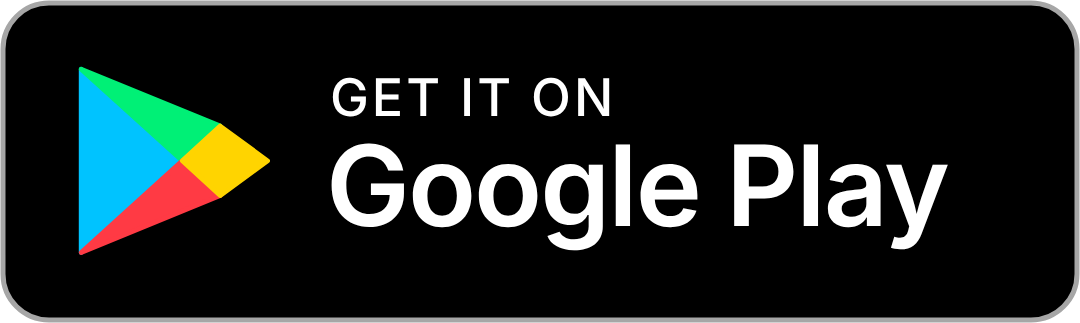
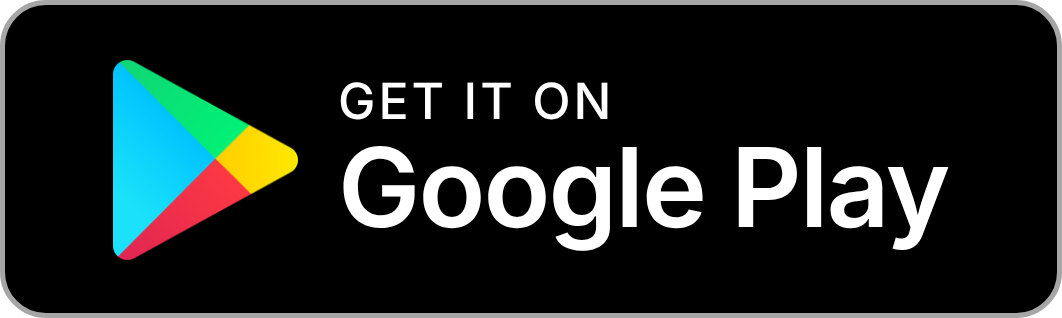
Google Play badge fix

diff --git a/en/index.html b/en/index.html
@@ -347,8 +347,8 @@ a:focus-visible{outline:2px solid var(--gold);outline-offset:4px;border-radius:1
   background:rgba(7,11,16,.55);border:1px solid rgba(234,242,255,.22);-webkit-backdrop-filter:blur(10px);backdrop-filter:blur(10px)}
 .lang-sw:hover{border-color:var(--gold);color:var(--gold)}
 .stores .soon{position:relative;display:block;border-radius:12px;cursor:default}
-.stores .soon img{opacity:.5}
-.stores .soon b{position:absolute;right:8px;top:-10px;background:var(--gold);color:#1a1405;font:800 11px/1 var(--sans);letter-spacing:.07em;
+.stores .soon img{opacity:.88;display:block}
+.stores .soon b{position:absolute;left:50%;bottom:-9px;transform:translateX(-50%);white-space:nowrap;box-shadow:0 2px 8px rgba(0,0,0,.45);background:var(--gold);color:#1a1405;font:800 11px/1 var(--sans);letter-spacing:.07em;
   text-transform:uppercase;padding:5px 9px;border-radius:999px}
 .getit{padding:clamp(40px,8vh,80px) 16px 0;text-align:center}
 .getit .stores{margin-top:0}

diff --git a/en/privacy.html b/en/privacy.html
@@ -346,8 +346,8 @@ a:focus-visible{outline:2px solid var(--gold);outline-offset:4px;border-radius:1
   background:rgba(7,11,16,.55);border:1px solid rgba(234,242,255,.22);-webkit-backdrop-filter:blur(10px);backdrop-filter:blur(10px)}
 .lang-sw:hover{border-color:var(--gold);color:var(--gold)}
 .stores .soon{position:relative;display:block;border-radius:12px;cursor:default}
-.stores .soon img{opacity:.5}
-.stores .soon b{position:absolute;right:8px;top:-10px;background:var(--gold);color:#1a1405;font:800 11px/1 var(--sans);letter-spacing:.07em;
+.stores .soon img{opacity:.88;display:block}
+.stores .soon b{position:absolute;left:50%;bottom:-9px;transform:translateX(-50%);white-space:nowrap;box-shadow:0 2px 8px rgba(0,0,0,.45);background:var(--gold);color:#1a1405;font:800 11px/1 var(--sans);letter-spacing:.07em;
   text-transform:uppercase;padding:5px 9px;border-radius:999px}
 .getit{padding:clamp(40px,8vh,80px) 16px 0;text-align:center}
 .getit .stores{margin-top:0}

diff --git a/en/support.html b/en/support.html
@@ -346,8 +346,8 @@ a:focus-visible{outline:2px solid var(--gold);outline-offset:4px;border-radius:1
   background:rgba(7,11,16,.55);border:1px solid rgba(234,242,255,.22);-webkit-backdrop-filter:blur(10px);backdrop-filter:blur(10px)}
 .lang-sw:hover{border-color:var(--gold);color:var(--gold)}
 .stores .soon{position:relative;display:block;border-radius:12px;cursor:default}
-.stores .soon img{opacity:.5}
-.stores .soon b{position:absolute;right:8px;top:-10px;background:var(--gold);color:#1a1405;font:800 11px/1 var(--sans);letter-spacing:.07em;
+.stores .soon img{opacity:.88;display:block}
+.stores .soon b{position:absolute;left:50%;bottom:-9px;transform:translateX(-50%);white-space:nowrap;box-shadow:0 2px 8px rgba(0,0,0,.45);background:var(--gold);color:#1a1405;font:800 11px/1 var(--sans);letter-spacing:.07em;
   text-transform:uppercase;padding:5px 9px;border-radius:999px}
 .getit{padding:clamp(40px,8vh,80px) 16px 0;text-align:center}
 .getit .stores{margin-top:0}

diff --git a/index.html b/index.html
@@ -347,8 +347,8 @@ a:focus-visible{outline:2px solid var(--gold);outline-offset:4px;border-radius:1
   background:rgba(7,11,16,.55);border:1px solid rgba(234,242,255,.22);-webkit-backdrop-filter:blur(10px);backdrop-filter:blur(10px)}
 .lang-sw:hover{border-color:var(--gold);color:var(--gold)}
 .stores .soon{position:relative;display:block;border-radius:12px;cursor:default}
-.stores .soon img{opacity:.5}
-.stores .soon b{position:absolute;right:8px;top:-10px;background:var(--gold);color:#1a1405;font:800 11px/1 var(--sans);letter-spacing:.07em;
+.stores .soon img{opacity:.88;display:block}
+.stores .soon b{position:absolute;left:50%;bottom:-9px;transform:translateX(-50%);white-space:nowrap;box-shadow:0 2px 8px rgba(0,0,0,.45);background:var(--gold);color:#1a1405;font:800 11px/1 var(--sans);letter-spacing:.07em;
   text-transform:uppercase;padding:5px 9px;border-radius:999px}
 .getit{padding:clamp(40px,8vh,80px) 16px 0;text-align:center}
 .getit .stores{margin-top:0}

diff --git a/privacy.html b/privacy.html
@@ -346,8 +346,8 @@ a:focus-visible{outline:2px solid var(--gold);outline-offset:4px;border-radius:1
   background:rgba(7,11,16,.55);border:1px solid rgba(234,242,255,.22);-webkit-backdrop-filter:blur(10px);backdrop-filter:blur(10px)}
 .lang-sw:hover{border-color:var(--gold);color:var(--gold)}
 .stores .soon{position:relative;display:block;border-radius:12px;cursor:default}
-.stores .soon img{opacity:.5}
-.stores .soon b{position:absolute;right:8px;top:-10px;background:var(--gold);color:#1a1405;font:800 11px/1 var(--sans);letter-spacing:.07em;
+.stores .soon img{opacity:.88;display:block}
+.stores .soon b{position:absolute;left:50%;bottom:-9px;transform:translateX(-50%);white-space:nowrap;box-shadow:0 2px 8px rgba(0,0,0,.45);background:var(--gold);color:#1a1405;font:800 11px/1 var(--sans);letter-spacing:.07em;
   text-transform:uppercase;padding:5px 9px;border-radius:999px}
 .getit{padding:clamp(40px,8vh,80px) 16px 0;text-align:center}
 .getit .stores{margin-top:0}

diff --git a/support.html b/support.html
@@ -346,8 +346,8 @@ a:focus-visible{outline:2px solid var(--gold);outline-offset:4px;border-radius:1
   background:rgba(7,11,16,.55);border:1px solid rgba(234,242,255,.22);-webkit-backdrop-filter:blur(10px);backdrop-filter:blur(10px)}
 .lang-sw:hover{border-color:var(--gold);color:var(--gold)}
 .stores .soon{position:relative;display:block;border-radius:12px;cursor:default}
-.stores .soon img{opacity:.5}
-.stores .soon b{position:absolute;right:8px;top:-10px;background:var(--gold);color:#1a1405;font:800 11px/1 var(--sans);letter-spacing:.07em;
+.stores .soon img{opacity:.88;display:block}
+.stores .soon b{position:absolute;left:50%;bottom:-9px;transform:translateX(-50%);white-space:nowrap;box-shadow:0 2px 8px rgba(0,0,0,.45);background:var(--gold);color:#1a1405;font:800 11px/1 var(--sans);letter-spacing:.07em;
   text-transform:uppercase;padding:5px 9px;border-radius:999px}
 .getit{padding:clamp(40px,8vh,80px) 16px 0;text-align:center}
 .getit .stores{margin-top:0}
